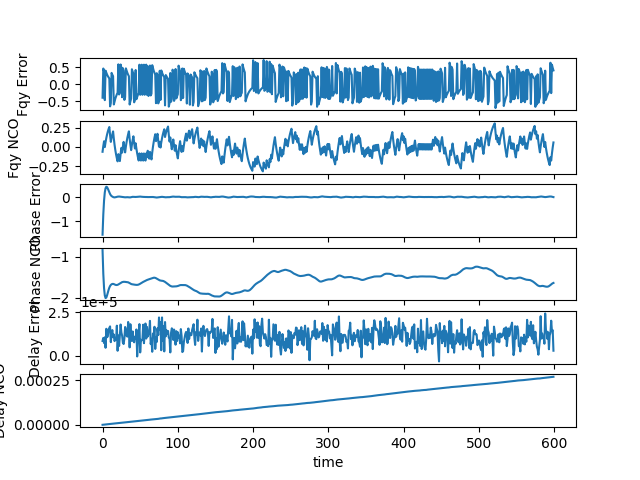
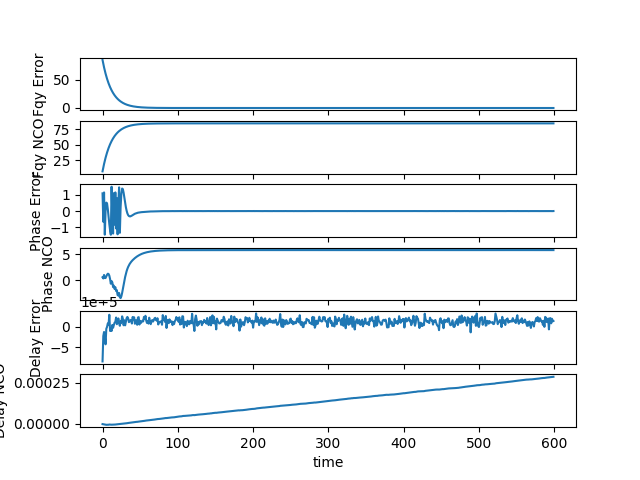
L1 code added

diff --git a/L1/codes/e2e_sim/navicsimL1.py b/L1/codes/e2e_sim/navicsimL1.py
@@ -1,12 +1,14 @@
 import numpy as np
 from fractions import Fraction
-
+import math
 import scipy.constants as sciconst
 import matplotlib.pyplot as plt
+from mpl_toolkits import mplot3d
+from mpl_toolkits.mplot3d import Axes3D
 from scipy.fftpack import fft
 import scipy.signal
 from sk_dsp_comm import fec_conv as fec     #pip/pip3 install scikit-dsp-comm
-
+from numpy_ringbuffer import RingBuffer
 # PRN Sequence generation API
 #R0 regiser initial parameter for Data signal
 SV_L1_Data_r0 = {
@@ -910,13 +912,13 @@ class NavicL5sModulator():
         fsc = m*1.023e6
          
         if(m == 1):
-            subCarrier = np.sign(np.sin(2*np.pi*(fsc*t + self.subCarrPhase1)))
-            self.subCarrPhase1 += fsc*N*ts
-            self.subCarrPhase1 -= int(self.subCarrPhase1)
+            subCarrier = np.sign(np.sin(2*np.pi*fsc*t + self.subCarrPhase1))
+            #self.subCarrPhase1 += fsc*N*ts
+            #self.subCarrPhase1 -= int(self.subCarrPhase1)
         if(m == 6):
-            subCarrier = np.sign(np.sin(2*np.pi*(fsc*t + self.subCarrPhase2)))
-            self.subCarrPhase2 += fsc*N*ts
-            self.subCarrPhase2 -= int(self.subCarrPhase2)
+            subCarrier = np.sign(np.sin(2*np.pi*fsc*t + self.subCarrPhase2))
+            #self.subCarrPhase2 += fsc*N*ts
+            #self.subCarrPhase2 -= int(self.subCarrPhase2)
         return subCarrier
     
     def Release(self,m):
@@ -1549,12 +1551,16 @@ class NavicTracker:
         [u, self.pBuffer] = np.split(np.append(self.pBuffer, u), [round(self.SampleRate*integtime)])
         #[self.pBuffer,u] = np.split(np.append(self.pBuffer, u), [round(self.SampleRate*integtime)])
        
+       #The below line is added to fix the bug related to receiveing correct data with one bit delay
+        [localbuf, buf] = np.split(np.append(self.pBuffer, np.zeros(len(u))), [round(self.SampleRate*integtime)]) 
+       
+       
         # Carrier wipe-off
         fc = self.CenterFrequency + self.InitialDopplerShift - self.pFLLNCOOut
         t = np.arange(self.pNumIntegSamples+1)/self.SampleRate
         phases = 2*np.pi*fc*t + self.pPreviousPhase - self.pPLLNCOOut
-        iqsig = u * np.exp(-1j*phases[:-1])
-        #iqsig = self.pBuffer * np.exp(-1j*phases[:-1])
+        #iqsig = u * np.exp(-1j*phases[:-1])
+        iqsig = localbuf * np.exp(-1j*phases[:-1])
         
         
         self.pPreviousPhase = phases[-1] + self.pPLLNCOOut
@@ -1710,7 +1716,7 @@ class NavicTracker:
 
         #self.updatePromptCode() ##Update the prompt code for next set of sample
 
-        return y_pilot, y_data, fqyerr, fqynco, pherr, phnco, delayerr, delaynco
+        return y_pilot, y_data, fqyerr, fqynco, pherr, phnco, delayerr, delaynco, fc
 
     def __upsample_table(self, codeBase, samplingFreq, codeLength ):
         """Upsample PRN sequence of satellite being tracked
@@ -1850,7 +1856,7 @@ pilotOverlayCodeLength = 1800
 codeFreqBasis = 1.023e6
 
 
-sampleRate = 12*codeFreqBasis
+sampleRate = 10*codeFreqBasis
 samplePeriod = 1/sampleRate
 symbolRate = 100
 #satId is the satellite ID for multiple satellites to track
@@ -1902,7 +1908,7 @@ Nr = k*T*rxBW;
 
 #frequrency shift to be applied to the signal
 #fShift = np.array([489, 1299, 3796, 4888])
-fShift = np.array([3895])
+fShift = np.array([4915])
 channelpfo = PhaseFrequencyOffset(sampleRate)
 #sigDelay is the delay in samples in channels
 #sigDelay = np.array([300.34, 587.21, 425.89, 312.88])
@@ -1955,8 +1961,8 @@ for istep in range(numSteps):
     noisesig = (np.random.normal(scale=Nr**0.5, size=(samplePerStep, )) + 1j*np.random.normal(scale=Nr**0.5, size=(samplePerStep, )))/2**0.5
 
     # Add thermal noise to composite signal
-    #rxwaveform = resultsig + noisesig
-    rxwaveform = resultsig
+    rxwaveform = resultsig + noisesig
+    #rxwaveform = resultsig
     
     # Scale received signal to have unit power
     waveform = rxwaveform/rms(rxwaveform)  
@@ -1972,7 +1978,7 @@ for istep in range(numSteps):
             fMin = -5000
             fMax = 5000
             fStep = 250
-            fSearch = np.arange(fMin, fMax, fStep)
+            fSearch = np.arange(fMin, fMax + fStep , fStep)
 
             tracker = []
             satVis = 0
@@ -2014,11 +2020,12 @@ for istep in range(numSteps):
             phnco = np.empty(trackDataShape)
             delayerr = np.empty(trackDataShape)
             delaynco = np.empty(trackDataShape)
+            fc = np.empty(trackDataShape)
            # input_phase = np.empty(trackDataShape)
 
     # Perform tracking for visible satellites
     for i in range(satVis):
-            y_pilot[istep, i], y_data[istep,i],fqyerr[istep, i], fqynco[istep, i], pherr[istep, i], phnco[istep, i], delayerr[istep, i], delaynco[istep, i] = tracker[i].stepImpl(waveform)
+            y_pilot[istep, i], y_data[istep,i],fqyerr[istep, i], fqynco[istep, i], pherr[istep, i], phnco[istep, i], delayerr[istep, i], delaynco[istep, i] ,fc[istep,i]= tracker[i].stepImpl(waveform)
 
 #print(len(y_pilot))
 
@@ -2031,19 +2038,19 @@ np.set_printoptions(threshold=np.inf)
 for i in range(satVis):
     #pilot_overlay_sent = pilotOverlayCodegen.GetBitStream()[:-1, i]
     #k = np.real(y_pilot[0:,i])
-        n = 1 #Number of data per bit
-        skip = 0 #Forgo few bits as the tracking loops starts early
+    n = 1 #Number of data per bit
+    skip = 0 #Forgo few bits as the tracking loops starts early
     #k = np.real(y_data[n*skip:,i])
-        h = np.real(y_data[n*skip:,i])
+    h = np.real(y_data[n*skip:,i])
     #sync_index, num_tr = gnss_bit_synchronize(k, n)
     #sync_index = 0
     #print("Synchronization index:", sync_index)
 
     #l = np.mean(k[sync_index:(((len(k)-sync_index)//n) * n) + sync_index].reshape(-1,n).T, axis=0)
-        mapbits = lambda l: np.piecewise(l, [l < 0, l >= 0], [1, 0])
-        mapbits_inverted = lambda l: np.piecewise(l, [l < 0, l >= 0], [0, 1])
-        bits = mapbits(h)
-        bits_inverted = mapbits_inverted(h)
+    mapbits = lambda l: np.piecewise(l, [l < 0, l >= 0], [1, 0])
+    mapbits_inverted = lambda l: np.piecewise(l, [l < 0, l >= 0], [0, 1])
+    bits = mapbits(h)
+    bits_inverted = mapbits_inverted(h)
     #print(pilot_overlay_sent)
     #status, fsync_index = find_sync_word(bits)
 
@@ -2055,10 +2062,10 @@ for i in range(satVis):
     #sync_frames = bits[fsync_index:]
    
     
-        print("satellite=",i)
-        num_sf = len(bits)//600
+    print("satellite=",i)
+    num_sf = len(bits)//600
     #navbits = datagen.GetBitStream()[0:600,0].reshape(-1,600)
-        navbits = datagen.GetBitStream()
+    navbits = datagen.GetBitStream()
     #print("Navbits", navbits)
     #print("bits=", bits)
     #print("bit inverted=", bits_inverted)
@@ -2074,9 +2081,44 @@ for i in range(satVis):
      #       print("Not Equal")
     #
     #check = decoder(bits[0:num_sf*600].reshape(-1,600),num_sf).reshape(-1,600)
-        for iter in range(k-1) :
-            print("iter=", iter, navbits[iter]==bits[iter+1], navbits[iter]==bits_inverted[iter+1], pherr[iter,i] )
-        print("k=", k)
+    for iter in range(k) :
+            print("iter=", iter, navbits[iter,i]==bits[iter], navbits[iter,i]==bits_inverted[iter], fc[iter,i],fqyerr[iter,i],fqynco[iter,i] )
+    print("k=", k)
+    
+    plt.subplot(6,1,1)
+    plt.plot(fqyerr[:,i])
+    #plt.ylim([0,0.05])
+    plt.xlabel('time') ; plt.ylabel('Fqy Error')
+    
+    plt.subplot(6,1,2)
+    plt.plot(fqynco[:,i])
+    #plt.ylim([0,0.05])
+    plt.xlabel('time') ; plt.ylabel('Fqy NCO')
+
+    plt.subplot(6,1,3)
+    plt.plot(pherr[:,i])
+    #plt.ylim([0,0.05])
+    plt.xlabel('time') ; plt.ylabel('Phase Error')
+
+    plt.subplot(6,1,4)
+    plt.plot(phnco[:,i])
+    #plt.ylim([0,0.05])
+    plt.xlabel('time') ; plt.ylabel('Phase NCO')
+
+    plt.subplot(6,1,5)
+    plt.plot(delayerr[:,i])
+    #plt.ylim([0,0.05])
+    plt.xlabel('time') ; plt.ylabel('Delay Error')
+    
+    plt.subplot(6,1,6)
+    plt.plot(delaynco[:,i])
+    #plt.ylim([0,0.05])
+    plt.xlabel('time') ; plt.ylabel('Delay NCO')
+    
+    
+    plt.savefig('./myplot.png')
+    plt.show()
+
 '''
     for j in range(num_sf):print("pherr=", pherr[k:(j+1)*600:, i])
         print("j=", j)
@@ -2138,29 +2180,6 @@ for iter in range(k-1):
 
 #print("Transmitted Bits:\n",datagen.GetBitStream()[::-1, 0])
 
-
-
-plt.subplot(4,1,1)
-plt.plot(fqyerr[:,0])
-#plt.ylim([0,0.05])
-plt.xlabel('time') ; plt.ylabel('Fqy Error')
-
-plt.subplot(4,1,2)
-plt.plot(pherr[:,0])
-#plt.ylim([0,0.05])
-plt.xlabel('time') ; plt.ylabel('Phase Error')
-
-plt.subplot(4,1,3)
-plt.plot(phnco[:,0])
-#plt.ylim([0,0.05])
-plt.xlabel('time') ; plt.ylabel('Phase NCO')
-
-plt.subplot(4,1,4)
-plt.plot(delayerr[:,0])
-#plt.ylim([0,0.05])
-plt.xlabel('time') ; plt.ylabel('Delay Error')
-plt.savefig('./myplot.png')
-plt.show()
 
 '''
 
